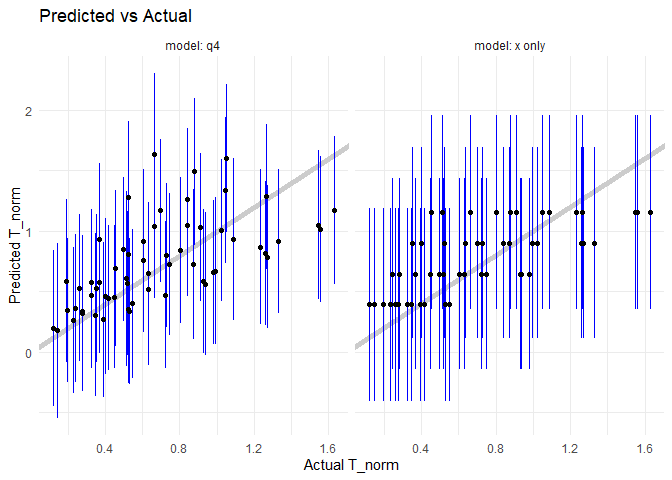
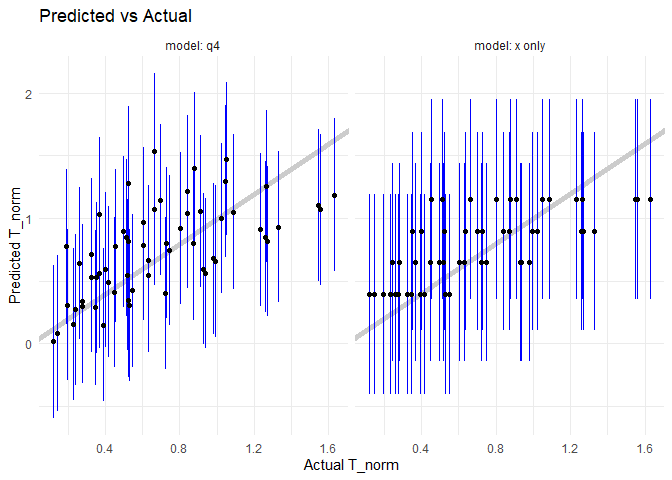
c11 update

diff --git a/challenges/c11-psaap-assignment.md b/challenges/c11-psaap-assignment.md
@@ -246,7 +246,22 @@ summary(df_psaap)
 
 **Observations**:
 
-- (Take notes here!)
+- (Take notes here!) There are a whole lot of variables here, and doing
+  a bit of research on what some of these actually mean would be very
+  useful, though it is not inherently explained or present in the
+  dataset. For example, isochoric means “same volume”, which would make
+  sense, because particles, which I assume are solid, should not
+  compress, at least not nearly as much as gasses. Convection
+  coefficient is used for heat transfer due to convection, in this case
+  from the surrounding air to the particle. Many of these variables are
+  material properties of the particles and the environment, or the
+  environment in which the tests are conducted in, while other variables
+  are more reliant on the physical design of the contraption. Which
+  variable one would focus on would vary drastically depending on the
+  context of analysis - i.e. material science vs. physical design.
+
+![The slide](./images/psaap-vars.png) Figure 2. A visualization of the
+simulation taken from the slide I created.
 
 The important variables in this dataset are:
 
@@ -523,7 +538,7 @@ df_psaap %>%
 ##       optimize your validation error.
 
 fit_q4 <-
-  lm(data = df_train, formula = T_norm ~ (x * L* I_0))
+  lm(data = df_train, formula = T_norm ~ (x + L + I_0))
 
 df_psaap %>% 
   ggplot() +
@@ -548,9 +563,9 @@ print(error_q4)
 ```
 
     ##          postResample.predictions_q4..df_validate.T_norm.
-    ## RMSE                                            0.3213676
-    ## Rsquared                                        0.3845223
-    ## MAE                                             0.2488505
+    ## RMSE                                            0.3249151
+    ## Rsquared                                        0.3876564
+    ## MAE                                             0.2598093
 
 **Observations**:
 
@@ -709,9 +724,14 @@ bind_rows(
 
 - Which model tends to be more accurate? How can you tell from this
   predicted-vs-actual plot?
-  - (Your response here) In terms of accuracy, from what is visible from
-    the plot, there is not much of a difference, as both models’
-    intervals seem land on the `Predicted T_norm vs Actual T_norm` line.
+  - (Your response here) From a glance, the `q4` model has a lot more
+    points that land very close to the regression line. However, there
+    are also points that are farther away from the regression line with
+    the `q4` model when compared to the `x only` model. Thus, actual
+    RMSE values would have to be calculated to determine the true
+    ‘accuracy’. With that being said, since `q4` has more points that
+    end up closer to the model, it would be the more accurate model, at
+    least in this regard.
 - Which model tends to be *more confident* in its predictions? Put
   differently, which model has *narrower prediction intervals*?
   - (Your response here) The q4 model has moderately narrower prediction
